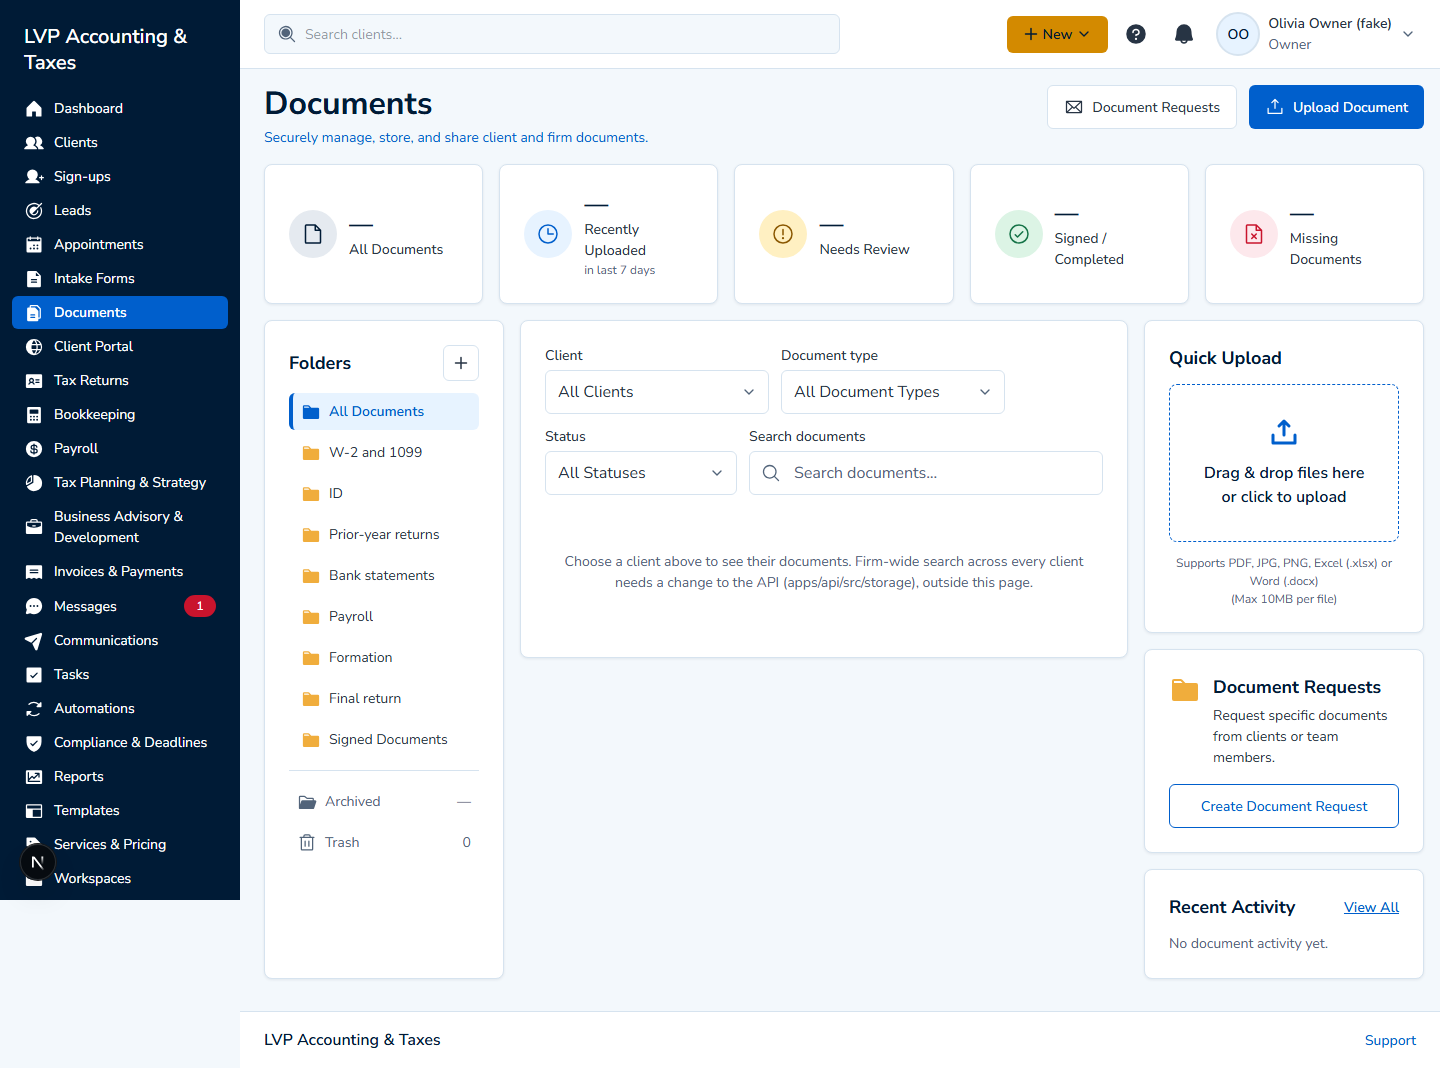
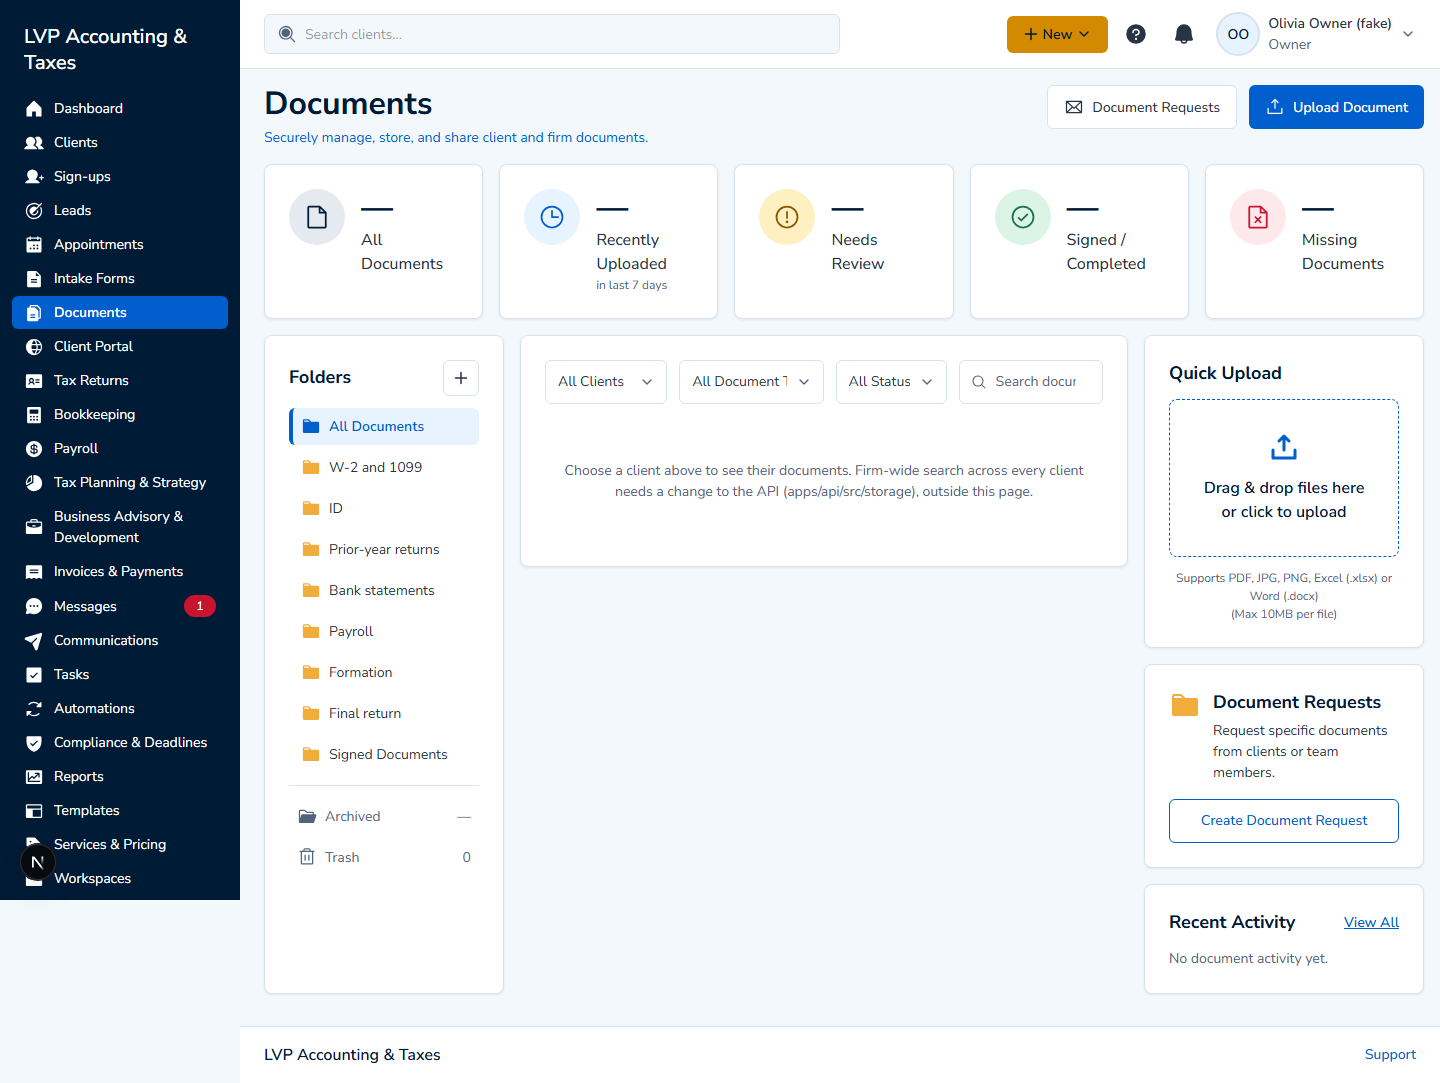
fix: compact filters row and match stat card layout (R34)
Two of the three design-match fixes requested after review:

- Filters: one compact row (Client, Document type, Status, Search),
  no visible labels. @firmivra/ui's Select and Input always render a
  visible <label> with no prop to hide it, so this uses a local
  compact Select wrapper and aria-label instead, without editing
  packages/ui.
- Stat cards: icon ring on the left, the number on top, caption under
  it, small grey line under that — top-aligned, bigger icon and
  number, matching the design's proportions.

Folder row height/spacing already measured close to the design
(~36-40px vs ~37-38px) and needed no change. Table row height is
governed by packages/ui's Table, which hardcodes px-4 py-3 on every
cell with no compact variant — not changed here for the same reason
as Select/Input; noted in the PR description.

diff --git a/apps/web/src/app/firm/(workspace)/documents/_components/documents-filters-bar.tsx b/apps/web/src/app/firm/(workspace)/documents/_components/documents-filters-bar.tsx
@@ -1,6 +1,6 @@
 import type { ClientListItem, DocumentCategory, FirmDocument } from '@firmivra/types';
-import { Select } from '@firmivra/ui';
 import { MagnifyingGlass } from '@phosphor-icons/react';
+import type { SelectHTMLAttributes } from 'react';
 
 const STATUS_OPTIONS: { value: '' | FirmDocument['scanStatus']; label: string }[] = [
   { value: '', label: 'All Statuses' },
@@ -9,6 +9,51 @@ const STATUS_OPTIONS: { value: '' | FirmDocument['scanStatus']; label: string }[
   { value: 'INFECTED', label: 'Blocked' },
   { value: 'FAILED', label: 'Scan failed' },
 ];
+
+/**
+ * The design's filter row has no visible labels, but @firmivra/ui's Select always renders one
+ * (packages/ui/src/fields.tsx) with no prop to hide it — same for Input. Reported to Rasel rather
+ * than editing packages/ui: both are missing a `hideLabel` (visually-hidden) prop. Until then, a
+ * local compact variant with the same classes as Select (copied, since they aren't exported) and
+ * an aria-label instead.
+ */
+function CompactSelect({
+  ariaLabel,
+  options,
+  className = '',
+  ...props
+}: { ariaLabel: string; options: { value: string; label: string }[] } & Omit<
+  SelectHTMLAttributes<HTMLSelectElement>,
+  'aria-label'
+>) {
+  return (
+    <div className={`relative min-w-0 ${className}`}>
+      <select
+        aria-label={ariaLabel}
+        className="min-w-0 w-full max-w-full appearance-none rounded-control border border-border bg-surface py-2 pl-3 pr-9 text-sm text-text focus:outline-2 focus:outline-accent-500"
+        {...props}
+      >
+        {options.map((o) => (
+          <option key={o.value} value={o.value}>
+            {o.label}
+          </option>
+        ))}
+      </select>
+      <svg
+        aria-hidden="true"
+        viewBox="0 0 24 24"
+        fill="none"
+        stroke="currentColor"
+        strokeWidth="2"
+        strokeLinecap="round"
+        strokeLinejoin="round"
+        className="pointer-events-none absolute top-1/2 right-3 size-4 -translate-y-1/2 text-muted"
+      >
+        <path d="m6 9 6 6 6-6" />
+      </svg>
+    </div>
+  );
+}
 
 export function DocumentsFiltersBar({
   clients,
@@ -34,61 +79,52 @@ export function DocumentsFiltersBar({
   onSearchChange: (value: string) => void;
 }) {
   return (
-    <div className="flex flex-col gap-3 sm:flex-row sm:flex-wrap" data-testid="documents-filters">
-      <div className="min-w-0 sm:w-56">
-        <Select
-          label="Client"
-          data-testid="filter-client"
-          value={clientId}
-          onChange={(event) => onClientChange(event.target.value)}
-          options={[
-            { value: '', label: 'All Clients' },
-            ...clients.map((c) => ({ value: c.id, label: c.displayName })),
-          ]}
+    <div className="flex flex-col gap-3 sm:flex-row" data-testid="documents-filters">
+      <CompactSelect
+        ariaLabel="Client"
+        data-testid="filter-client"
+        className="sm:flex-[1.1]"
+        value={clientId}
+        onChange={(event) => onClientChange(event.target.value)}
+        options={[
+          { value: '', label: 'All Clients' },
+          ...clients.map((c) => ({ value: c.id, label: c.displayName })),
+        ]}
+      />
+      <CompactSelect
+        ariaLabel="Document type"
+        data-testid="filter-type"
+        className="sm:flex-[1.3]"
+        value={categoryId}
+        onChange={(event) => onCategoryChange(event.target.value)}
+        options={[
+          { value: '', label: 'All Document Types' },
+          ...categories.map((c) => ({ value: c.id, label: c.name })),
+        ]}
+      />
+      <CompactSelect
+        ariaLabel="Status"
+        data-testid="filter-status"
+        className="sm:flex-1"
+        value={status}
+        onChange={(event) => onStatusChange(event.target.value as '' | FirmDocument['scanStatus'])}
+        options={STATUS_OPTIONS}
+      />
+      <div className="relative min-w-0 sm:flex-[1.3]">
+        <MagnifyingGlass
+          aria-hidden="true"
+          className="pointer-events-none absolute top-1/2 left-3 size-4 -translate-y-1/2 text-muted"
         />
-      </div>
-      <div className="min-w-0 sm:w-56">
-        <Select
-          label="Document type"
-          data-testid="filter-type"
-          value={categoryId}
-          onChange={(event) => onCategoryChange(event.target.value)}
-          options={[
-            { value: '', label: 'All Document Types' },
-            ...categories.map((c) => ({ value: c.id, label: c.name })),
-          ]}
+        <input
+          type="search"
+          maxLength={100}
+          value={search}
+          placeholder="Search documents..."
+          aria-label="Search documents"
+          data-testid="filter-search"
+          onChange={(event) => onSearchChange(event.target.value)}
+          className="w-full rounded-control border border-border bg-surface py-2 pr-3 pl-9 text-sm text-text placeholder:text-muted focus:outline-2 focus:outline-accent-500"
         />
-      </div>
-      <div className="min-w-0 sm:w-48">
-        <Select
-          label="Status"
-          data-testid="filter-status"
-          value={status}
-          onChange={(event) =>
-            onStatusChange(event.target.value as '' | FirmDocument['scanStatus'])
-          }
-          options={STATUS_OPTIONS}
-        />
-      </div>
-      <div className="min-w-0 flex-1 sm:min-w-56">
-        <label className="flex flex-col gap-1">
-          <span className="text-sm font-medium text-text">Search documents</span>
-          <span className="relative block">
-            <MagnifyingGlass
-              aria-hidden="true"
-              className="pointer-events-none absolute top-1/2 left-3 size-5 -translate-y-1/2 text-muted"
-            />
-            <input
-              type="search"
-              maxLength={100}
-              value={search}
-              placeholder="Search documents..."
-              data-testid="filter-search"
-              onChange={(event) => onSearchChange(event.target.value)}
-              className="w-full rounded-control border border-border bg-surface py-2 pr-3 pl-11 text-base text-text placeholder:text-muted focus:outline-2 focus:outline-accent-500"
-            />
-          </span>
-        </label>
       </div>
     </div>
   );

diff --git a/apps/web/src/app/firm/(workspace)/documents/_components/documents-stat-cards.tsx b/apps/web/src/app/firm/(workspace)/documents/_components/documents-stat-cards.tsx
@@ -44,20 +44,20 @@ export function DocumentsStatCards() {
   return (
     <div className="grid grid-cols-2 gap-4 sm:grid-cols-3 lg:grid-cols-5" data-testid="stat-cards">
       {STATS.map((stat) => (
-        <Card key={stat.label} className="flex items-center gap-3 p-4">
+        <Card key={stat.label} className="flex items-start gap-4 p-4">
           <span
-            className={`inline-flex size-12 shrink-0 items-center justify-center rounded-full ${stat.iconBg}`}
+            className={`inline-flex size-14 shrink-0 items-center justify-center rounded-full ${stat.iconBg}`}
           >
-            <stat.icon weight="regular" className={`size-6 ${stat.iconColor}`} aria-hidden="true" />
+            <stat.icon weight="regular" className={`size-7 ${stat.iconColor}`} aria-hidden="true" />
           </span>
           <span>
             <span
-              className="block text-2xl font-bold text-heading"
+              className="block text-3xl font-bold text-heading"
               aria-label={`${stat.label}: not available yet`}
             >
               &mdash;
             </span>
-            <span className="block text-sm font-medium text-text">{stat.label}</span>
+            <span className="block text-base font-medium text-text">{stat.label}</span>
             {stat.caption ? <span className="block text-xs text-muted">{stat.caption}</span> : null}
           </span>
         </Card>
